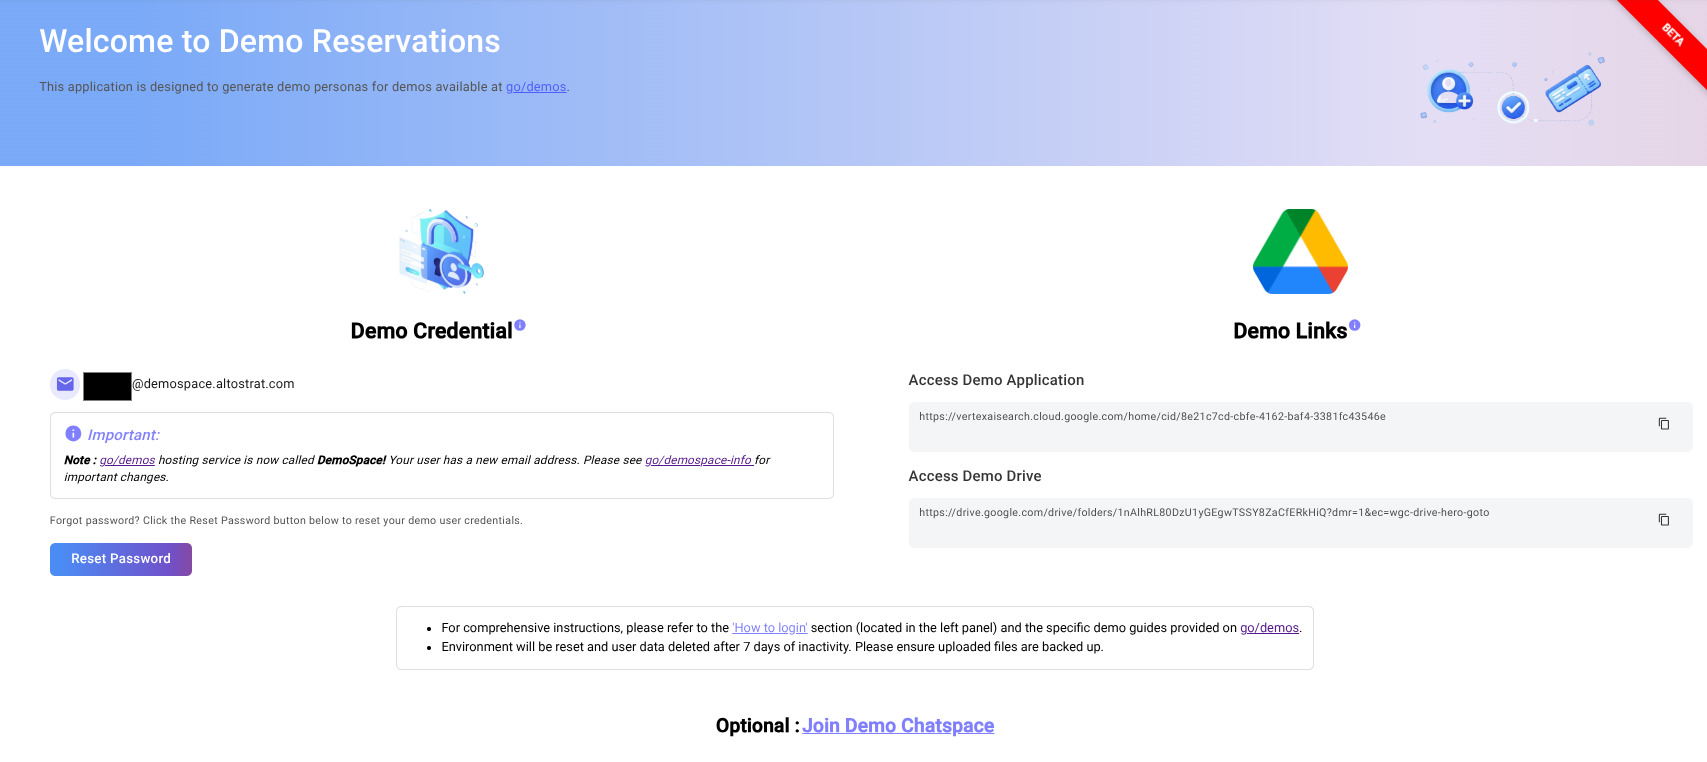
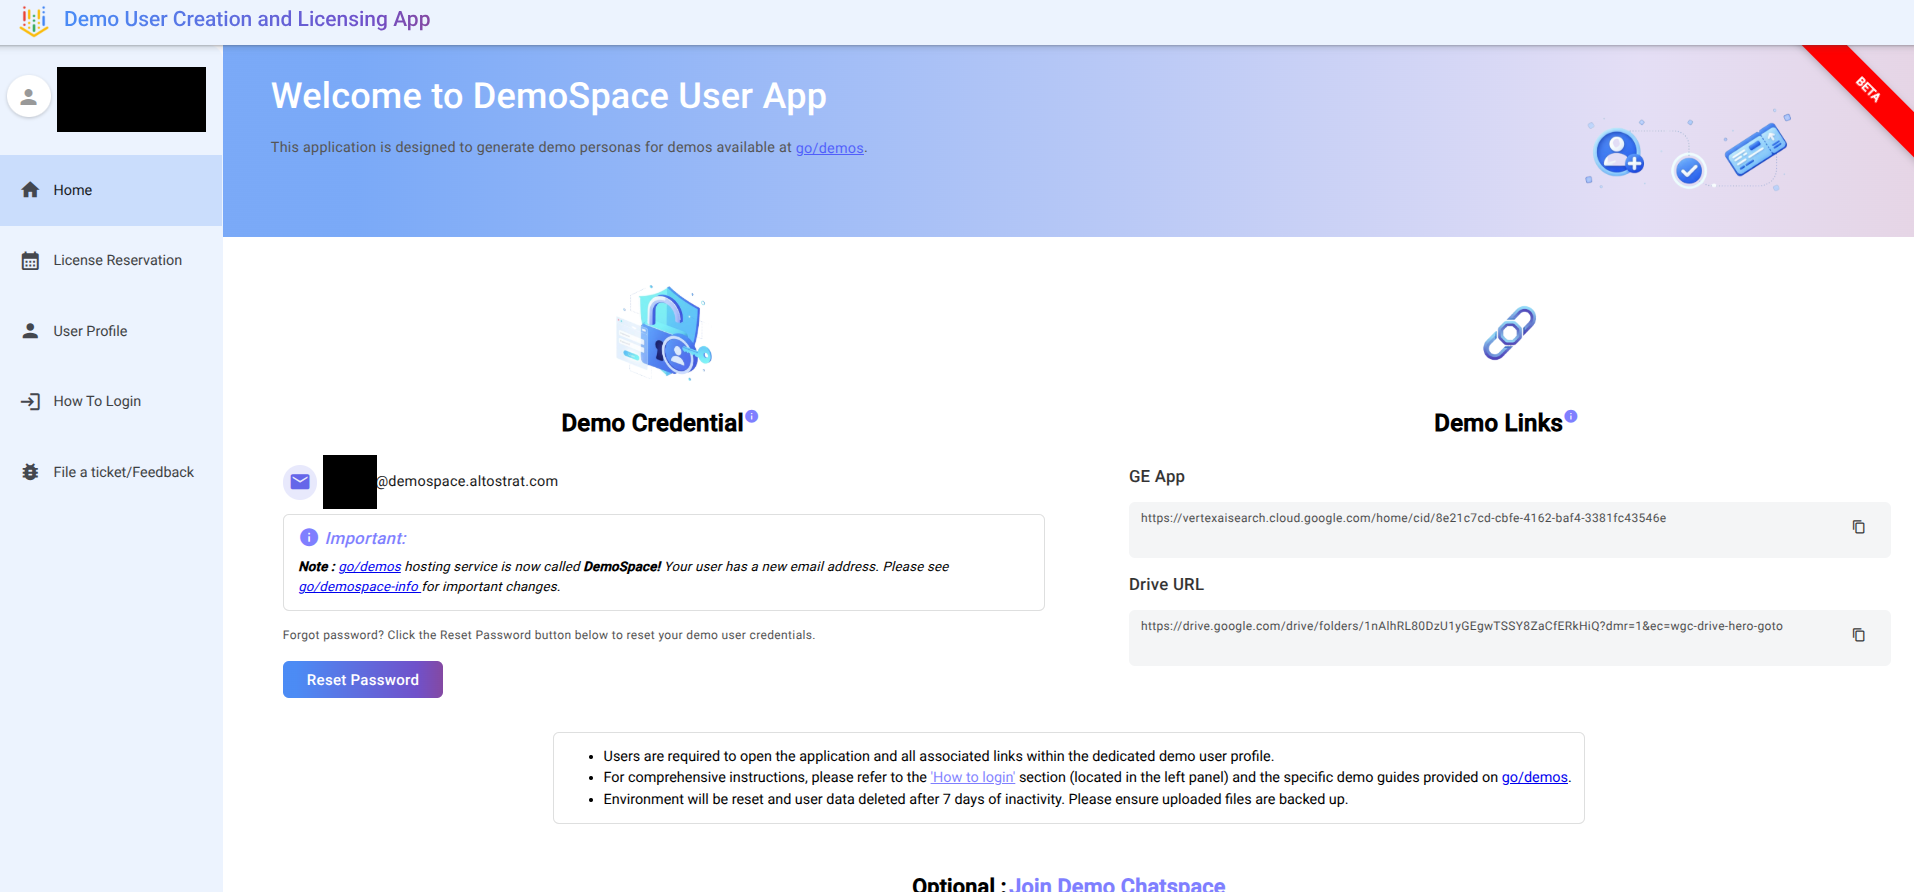
Update how to login

diff --git a/frontend/src/app/features/new-user/new-user.component.html b/frontend/src/app/features/new-user/new-user.component.html
@@ -90,30 +90,94 @@
   <mat-accordion class="panel-wrapper">
     <mat-expansion-panel>
       <mat-expansion-panel-header>
-        <mat-panel-title class="title">Access Demo App</mat-panel-title>
+        <mat-panel-title class="title">Open Demo Application</mat-panel-title>
       </mat-expansion-panel-header>
-      <img
-        src="assets/images/new_demo_user_profile.png"
-        alt="agentspace"
-        class="image-wrapper"
-      />
-      <div class="note-container">
-        <div class="note-wrapper">
-          <p>
-            NOTE: This is a sample image. Your application may look different
-            according to your demo.
-          </p>
-        </div>
-      </div>
-      <div class="title">
-        If applicable, open the demo drive link provided in your demo user’s
-        profile.
-      </div>
-      <img
-        src="assets/images/new_gmail_drive.png"
-        alt="agentspace"
-        class="image-wrapper"
-      />
+
+      <mat-tab-group class="demo-app-tabs">
+        <!-- Subtab 1: Copy GE App Link -->
+        <mat-tab label="Copy GE App Link">
+          <div class="tab-content">
+            <p class="instruction-text">
+              Copy the link of Gemini Enterprise Demo Application.
+            </p>
+            <img
+              [src]="geAppLinkImage"
+              alt="Gemini Enterprise Demo Application Link"
+              class="image-wrapper"
+            />
+          </div>
+        </mat-tab>
+
+        <!-- Subtab 2: For Mac & Windows -->
+        <mat-tab label="For Mac & Windows">
+          <div class="tab-content">
+            <ol class="instruction-list">
+              <li>Select <strong>“Work”</strong> profile from top right of Chrome browser.</li>
+              <li>
+                Select the profile you created under the <strong>“Other Chrome Profiles”</strong> section, e.g.,
+                <code>&#123;First Name&#125; (Neuravibe)</code>.
+              </li>
+              <li>This should open a new browser with your demo credentials.</li>
+              <li>Copy and paste the <strong>GE APP Link</strong>.</li>
+              <li>Save this location as a bookmark (<code>Command + d</code> on Mac or <code>Ctrl + d</code> on Windows).</li>
+              <li>Going forward you can now access demos by selecting your new profile.</li>
+            </ol>
+          </div>
+        </mat-tab>
+
+        <!-- Subtab 3: 403 Error Handling -->
+        <mat-tab label="403 Error Handling">
+          <div class="tab-content">
+            <ol class="instruction-list">
+              <li>Open a new browser window and paste the GE app link.</li>
+              <li>Make sure that you are logged in GE app url using the demospace account.</li>
+              <li>
+                If you see a <strong>403 error</strong>, it's most likely because Chrome takes a default account
+                (<code>ldap&#64;google.com</code>) to login. In such a case, select the profile icon in the bottom left
+                corner and select your demo user login credentials as shown in the picture below.
+              </li>
+              <li>
+                Save this location as a bookmark (<code>Ctrl + d</code> / <code>Command + d</code>).
+                <span class="sub-note">(Note: you might want to create a designated folder for this as well to manage your “Accounts”)</span>
+              </li>
+              <li>Going forward you can simply select the bookmark to access your demo.</li>
+            </ol>
+            <img
+              [src]="geAppErrorImage"
+              alt="403 Error Resolution"
+              class="image-wrapper"
+            />
+          </div>
+        </mat-tab>
+
+        <!-- Subtab 4: Access Demo App -->
+        <mat-tab label="Access demo app">
+          <div class="tab-content">
+            <img
+              src="assets/images/new_demo_user_profile.png"
+              alt="agentspace"
+              class="image-wrapper"
+            />
+            <div class="note-container">
+              <div class="note-wrapper">
+                <p>
+                  NOTE: This is a sample image. Your application may look different
+                  according to your demo.
+                </p>
+              </div>
+            </div>
+            <div class="title">
+              If applicable, open the demo drive link provided in your demo user’s
+              profile.
+            </div>
+            <img
+              src="assets/images/new_gmail_drive.png"
+              alt="agentspace"
+              class="image-wrapper"
+            />
+          </div>
+        </mat-tab>
+      </mat-tab-group>
     </mat-expansion-panel>
   </mat-accordion>
 
@@ -157,17 +221,16 @@
     </mat-expansion-panel>
   </mat-accordion>
 
-  <!-- <div class="note-container">
-    <div class="note-wrapper">
-      <mat-icon class="info-wrapper">info</mat-icon>
-      <p>
-        BEST practice: Create a Chrome Profile for your demo user. This way you
-        will be able to save your password and come back w/o having to remember
-        or regenerate your demo user password. For more see:
-        <a [href]="manageProfileLink" target="_blank" rel="noopener noreferrer"
-          >Manage Chrome with multiple profiles.</a
-        >
-      </p>
-    </div>
-  </div> -->
+  <div class="bottom-info-container">
+    <p>
+      Please refer to
+      <a
+        [href]="demoSpaceInfoLink"
+        target="_blank"
+        rel="noopener noreferrer"
+        ><b>go/demospace-info</b></a
+      >
+      for details.
+    </p>
+  </div>
 </div>

diff --git a/frontend/src/app/features/new-user/new-user.component.scss b/frontend/src/app/features/new-user/new-user.component.scss
@@ -46,6 +46,51 @@
       object-position: center;
       display: block;
     }
+
+    .demo-app-tabs {
+      margin-top: 0.5rem;
+
+      .tab-content {
+        padding: 1.25rem 0.5rem;
+
+        .instruction-text {
+          font-size: 1.05rem;
+          font-family: Roboto, sans-serif;
+          color: #333;
+          margin-bottom: 1rem;
+          line-height: 1.5;
+        }
+
+        .instruction-list {
+          margin: 0 0 1.25rem 0;
+          padding-left: 1.5rem;
+
+          li {
+            font-size: 1rem;
+            font-family: Roboto, sans-serif;
+            color: #333;
+            line-height: 1.6;
+            margin-bottom: 0.75rem;
+
+            code {
+              background-color: #f1f3f4;
+              padding: 0.15rem 0.4rem;
+              border-radius: 4px;
+              font-family: monospace;
+              font-size: 0.95rem;
+              color: #1a73e8;
+            }
+
+            .sub-note {
+              display: block;
+              font-style: italic;
+              color: #666;
+              margin-top: 0.25rem;
+            }
+          }
+        }
+      }
+    }
   }
 
   .note-container {
@@ -80,6 +125,37 @@
         font-style: normal;
         font-weight: 400;
         letter-spacing: 0.02rem;
+      }
+    }
+  }
+
+  .bottom-info-container {
+    display: flex;
+    justify-content: center;
+    align-items: center;
+    text-align: center;
+    margin-top: 2rem;
+    margin-bottom: 2rem;
+
+    p {
+      margin: 0;
+      padding: 0;
+      font-size: 1.1rem;
+      font-family: Roboto, sans-serif;
+      color: #333;
+
+      a {
+        color: #1a73e8;
+        text-decoration: none;
+
+        &:hover {
+          text-decoration: underline;
+        }
+
+        b,
+        strong {
+          font-weight: 700;
+        }
       }
     }
   }

diff --git a/frontend/src/app/features/new-user/new-user.component.ts b/frontend/src/app/features/new-user/new-user.component.ts
@@ -1,16 +1,18 @@
 import { Component } from '@angular/core';
 import { MatExpansionModule } from '@angular/material/expansion';
 import { MatIconModule } from '@angular/material/icon';
+import { MatTabsModule } from '@angular/material/tabs';
 import {
   CHAT_SPACE_URL,
   DEMO_PAGE_URL,
+  DEMOSPACEINFO_LINK,
   MANAGE_PROFILE_INSTRUCTIONS_URL,
 } from '../../shared/constants/links.contants';
 import { AppInstructions } from '../../core/models/app-instructions.model';
 
 @Component({
   selector: 'app-new-user',
-  imports: [MatExpansionModule, MatIconModule],
+  imports: [MatExpansionModule, MatIconModule, MatTabsModule],
   templateUrl: './new-user.component.html',
   styleUrl: './new-user.component.scss',
 })
@@ -18,6 +20,9 @@ export class NewUserComponent {
   manageProfileLink = MANAGE_PROFILE_INSTRUCTIONS_URL;
   demoPageUrl = DEMO_PAGE_URL;
   chatSpaceUrl = CHAT_SPACE_URL;
+  demoSpaceInfoLink = DEMOSPACEINFO_LINK;
+  geAppLinkImage = 'assets/images/ge_app_link.png';
+  geAppErrorImage = 'assets/images/ge_app_error.png';
   loginSteps: AppInstructions[] = [
     {
       id: 1,
